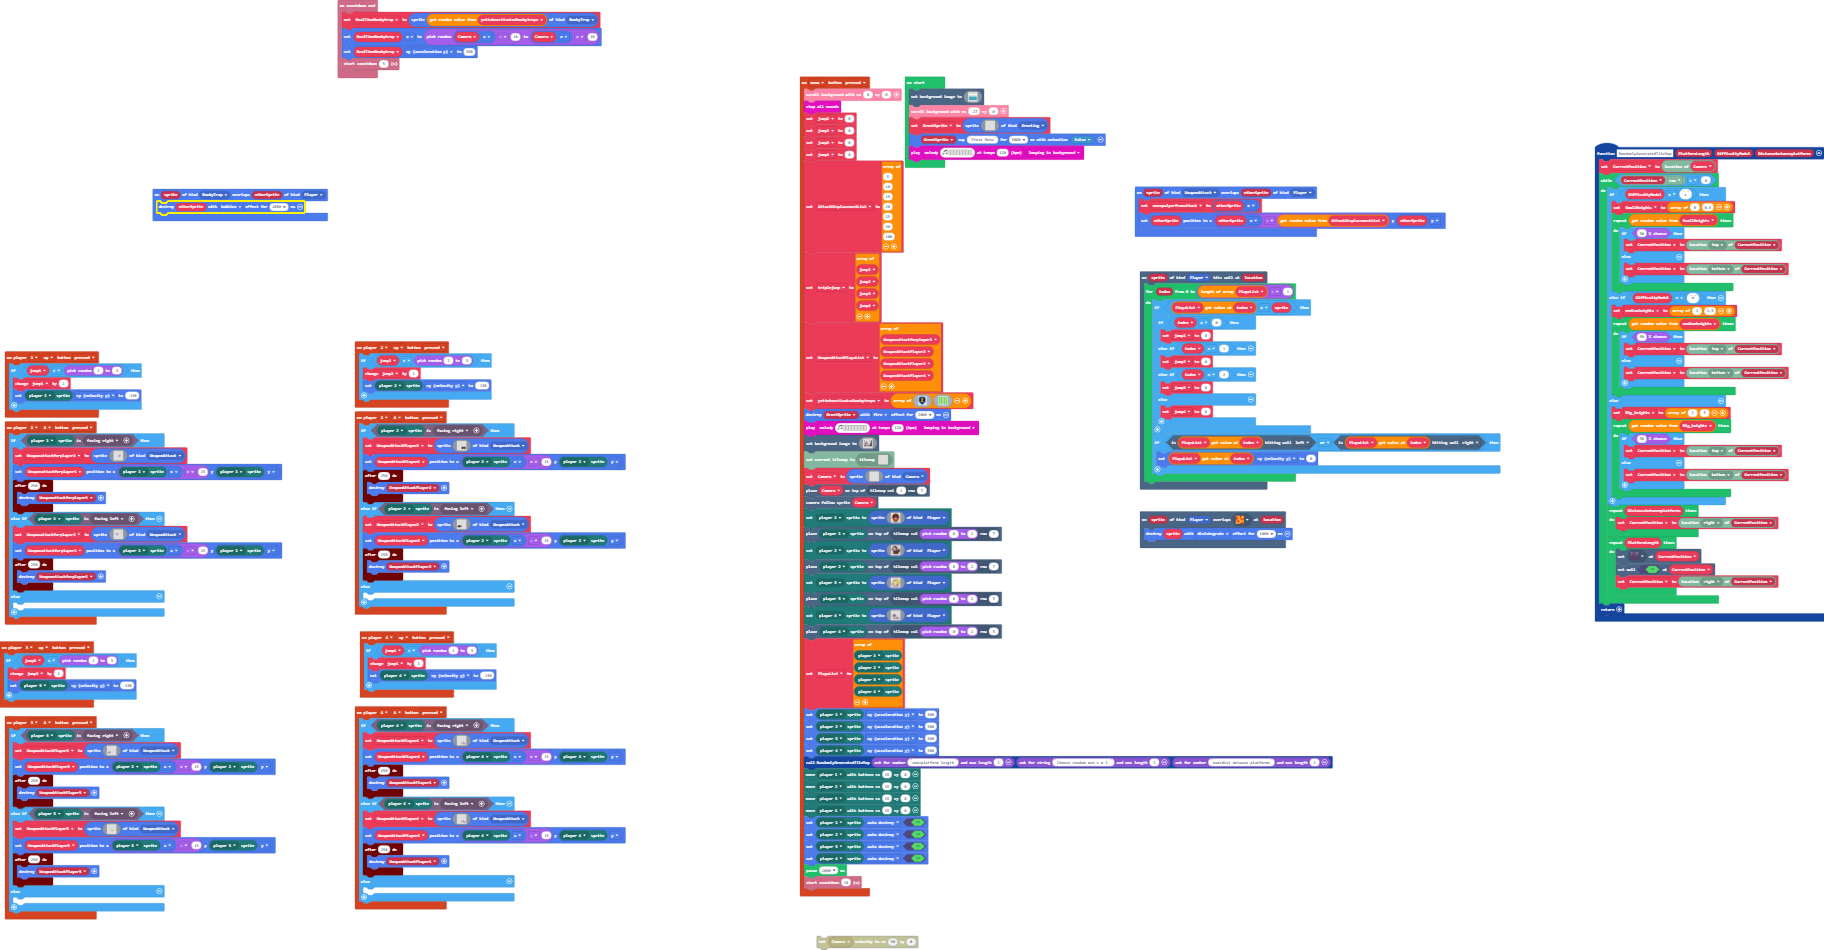
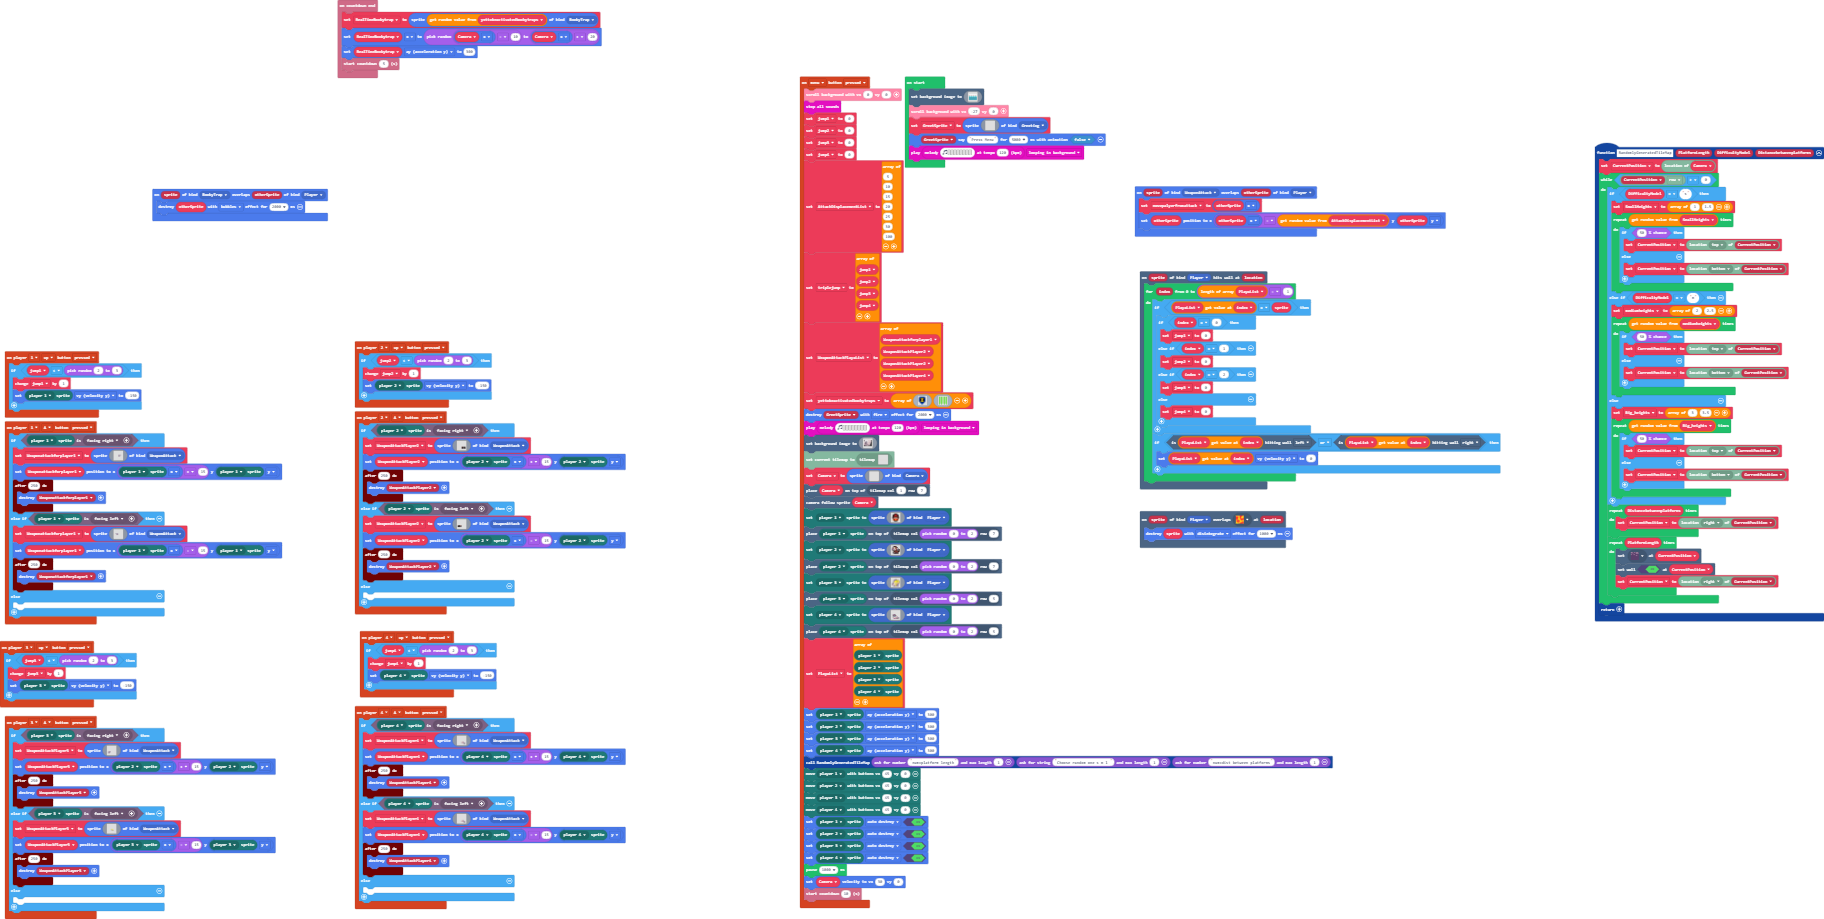
Update pxt.json, main.blocks, main.ts

diff --git a/main.ts b/main.ts
@@ -484,6 +484,7 @@ controller.menu.onEvent(ControllerButtonEvent.Pressed, function () {
     mp.getPlayerSprite(mp.playerSelector(mp.PlayerNumber.Three)).setFlag(SpriteFlag.AutoDestroy, true)
     mp.getPlayerSprite(mp.playerSelector(mp.PlayerNumber.Four)).setFlag(SpriteFlag.AutoDestroy, true)
     pause(1000)
+    Camera.setVelocity(30, 0)
     info.startCountdown(10)
 })
 controller.player1.onButtonEvent(ControllerButton.A, ControllerButtonEvent.Pressed, function () {
@@ -616,7 +617,7 @@ function RandomlyGeneratedTileMap (PlatformLength: number, DifficultyModel: stri
     CurrentPosition = tiles.locationOfSprite(Camera)
     while (tiles.locationXY(CurrentPosition, tiles.XY.row) > 0) {
         if (DifficultyModel == "s") {
-            SmallHeights = [0, 0.5]
+            SmallHeights = [1, 1.5]
             for (let index = 0; index < SmallHeights._pickRandom(); index++) {
                 if (Math.percentChance(50)) {
                     CurrentPosition = tiles.locationInDirection(CurrentPosition, CollisionDirection.Top)
@@ -625,7 +626,7 @@ function RandomlyGeneratedTileMap (PlatformLength: number, DifficultyModel: stri
                 }
             }
         } else if (DifficultyModel == "m") {
-            mediumheights = [1, 1.5]
+            mediumheights = [2, 2.5]
             for (let index = 0; index < mediumheights._pickRandom(); index++) {
                 if (Math.percentChance(50)) {
                     CurrentPosition = tiles.locationInDirection(CurrentPosition, CollisionDirection.Top)
@@ -634,7 +635,7 @@ function RandomlyGeneratedTileMap (PlatformLength: number, DifficultyModel: stri
                 }
             }
         } else {
-            Big_heights = [2, 3]
+            Big_heights = [3, 3.5]
             for (let index = 0; index < Big_heights._pickRandom(); index++) {
                 if (Math.percentChance(50)) {
                     CurrentPosition = tiles.locationInDirection(CurrentPosition, CollisionDirection.Top)
